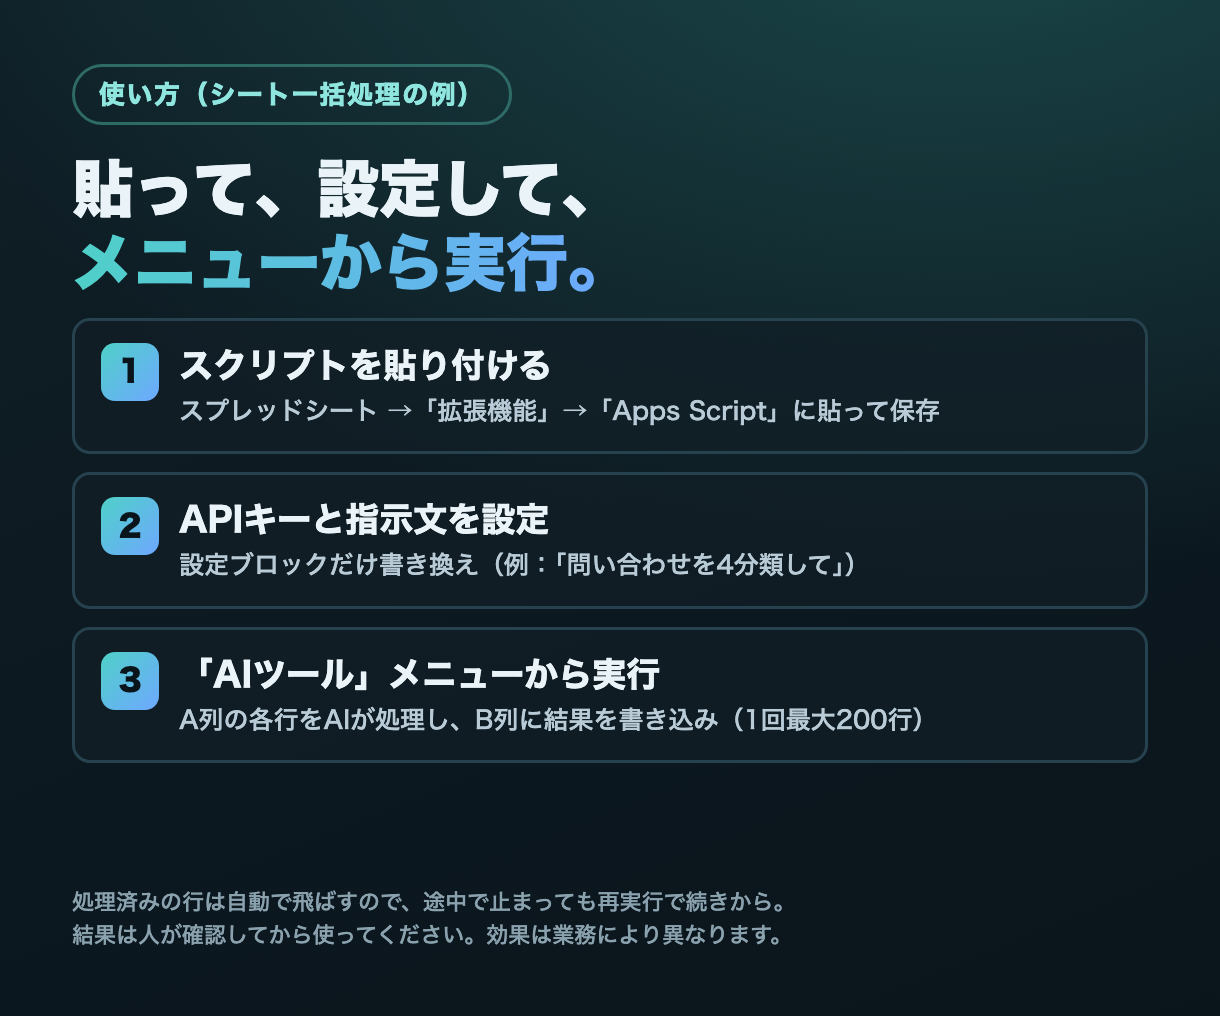
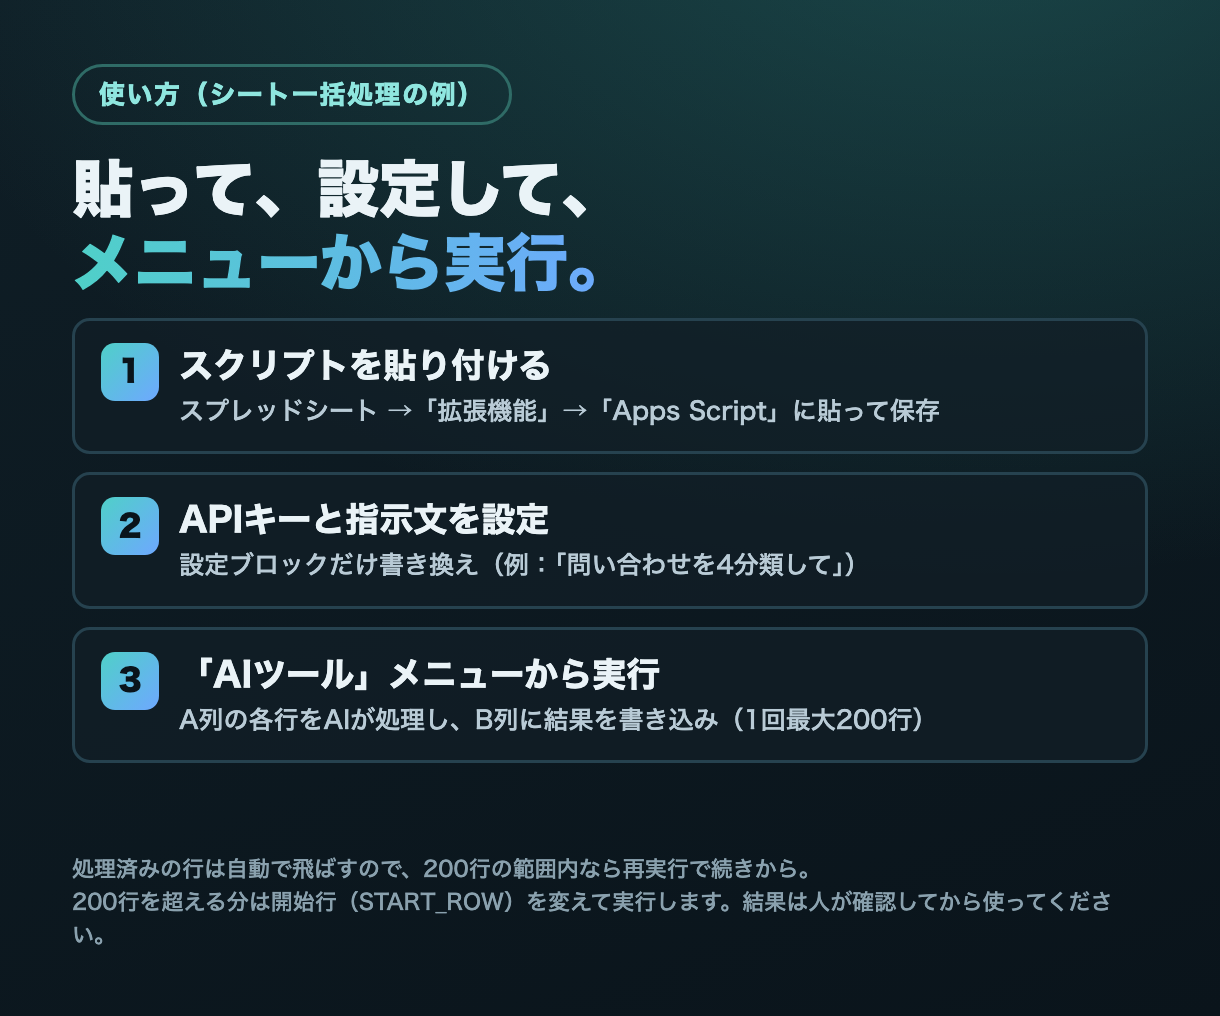
State batch-script 200-row scope precisely; add BOOTH as third JP buy path

Changed region(s): [[0.0623, 0.8238, 0.841, 0.9459], [0.8721, 0.8848, 0.9033, 0.9154]]

diff --git a/tools/ai-api-cost-calculator-jp.html b/tools/ai-api-cost-calculator-jp.html
@@ -61,7 +61,7 @@ button{background:#1f7f7a;color:#fff;border:0;border-radius:10px;padding:9px 16p
 
 <div class="cta">
 <h2 style="margin-top:0">費用が分かったら、そのまま動くスクリプトで始める</h2>
-<p>シートの1列をAIで一括処理するスクリプトと、その日の記録をAIが要約して決まった時刻にメール送信するスクリプトの2本に、日本語の導入手順書を付けたキットです。処理済みの行は自動で飛ばすので、<strong>6分の実行時間制限で止まっても、再実行すれば続きから処理</strong>できます（1回の実行は最大200行）。コードが書けなくてもコピー＆ペーストで導入できます。</p>
+<p>シートの1列をAIで一括処理するスクリプトと、その日の記録をAIが要約して決まった時刻にメール送信するスクリプトの2本に、日本語の導入手順書を付けたキットです。1回の実行で処理するのは開始行から最大200行です。処理済みの行は自動で飛ばすので、<strong>その範囲内なら6分の実行時間制限で止まっても、再実行すれば続きから処理</strong>できます（200行を超える分は開始行の設定を変えて実行します）。コードが書けなくてもコピー＆ペーストで導入できます。</p>
 <p><a class="btn" href="https://coconala.com/services/4426150" target="_blank" rel="noopener">ココナラで購入・導入相談する（3,000円・税抜〜）</a><a class="btn alt" href="https://feverish50.gumroad.com/l/kaqnpj">同じキットを今すぐダウンロード（Gumroad・$19）</a><a class="btn alt" href="https://feverish50.gumroad.com/l/jqxenl">Gmail自動返信・請求書PDF・議事録要約も入ったPRO版（$39）</a></p>
 <p class="muted">ココナラは日本円で購入でき、初期設定サポート（＋4,000円）・実データでの導入伴走（＋12,000円）を任意で付けられます（税抜）。Gumroadは$19の海外決済で、決済後すぐダウンロードできます。</p>
 <p class="muted">まず1本だけ試すなら <a href="https://feverish50.gumroad.com/l/koujr">単品・拡張版（$3）</a>。無料の <a href="https://feverish50.gumroad.com/l/rlalv">事務AIプロンプト集（0円〜）</a> もあります。</p>

diff --git a/store/jp.html b/store/jp.html
@@ -66,6 +66,7 @@ h2.sec{font-family:var(--disp);font-size:21px;margin:0 0 14px}
 
 <section class="card" id="how-to-buy" aria-labelledby="how-to-buy-h">
 <h2 class="sec" id="how-to-buy-h">購入方法を選べます（中身は同じGAS2本＋日本語手順書）</h2>
+<p class="mini">ココナラ・Stripe・Gumroad・BOOTHの納品ZIPは同一です。どれか1つだけご購入ください。</p>
 <div class="cta-row" style="margin-top:6px">
 <a class="buy" href="https://coconala.com/services/4426150" target="_blank" rel="noopener">ココナラで購入・導入相談する →</a>
 <div><div class="price">3,000円（税抜）〜</div><div class="mini">日本円・ココナラ決済 ・ 購入後トークルームでZIPを納品</div></div>
@@ -73,6 +74,7 @@ h2.sec{font-family:var(--disp);font-size:21px;margin:0 0 14px}
 <ul class="pain" style="margin-top:12px">
 <li><b>ココナラがおすすめの方：</b>日本円で支払いたい／初期設定を手伝ってほしい（初期設定サポート＋4,000円）／実データで自動化フローを1つ一緒に作りたい（導入伴走＋12,000円）。いずれも税抜・任意のオプションで、購入前の見積り相談もできます。</li>
 <li><b>Stripeがおすすめの方：</b>自分で導入できるので、今すぐダウンロードしたい（$19・約2,900円の海外決済。決済後すぐダウンロード）。</li>
+<li><b>BOOTHがおすすめの方：</b>自分で導入でき、日本円ですぐダウンロードしたい（3,000円・税込。購入後すぐダウンロード、設定サポートはありません）→ <a href="https://booth.pm/ja/items/8919052" target="_blank" rel="noopener" style="color:var(--accent2)">BOOTHで購入する</a></li>
 </ul>
 <div class="cta-row" style="margin-top:10px">
 <a class="buy" id="buy" href="#" style="opacity:.92">Stripeで今すぐ購入する — $19 →</a>

diff --git a/marketing/coconala-images/img3.html b/marketing/coconala-images/img3.html
@@ -4,5 +4,5 @@
 <div class="row"><div class="n">1</div><div><b>スクリプトを貼り付ける</b><span>スプレッドシート →「拡張機能」→「Apps Script」に貼って保存</span></div></div>
 <div class="row"><div class="n">2</div><div><b>APIキーと指示文を設定</b><span>設定ブロックだけ書き換え（例：「問い合わせを4分類して」）</span></div></div>
 <div class="row"><div class="n">3</div><div><b>「AIツール」メニューから実行</b><span>A列の各行をAIが処理し、B列に結果を書き込み（1回最大200行）</span></div></div>
-<p class="note">処理済みの行は自動で飛ばすので、途中で止まっても再実行で続きから。<br>結果は人が確認してから使ってください。効果は業務により異なります。</p>
+<p class="note">処理済みの行は自動で飛ばすので、200行の範囲内なら再実行で続きから。<br>200行を超える分は開始行（START_ROW）を変えて実行します。結果は人が確認してから使ってください。</p>
 </div></body></html>

diff --git a/guides/chatgpt-sheet-jidoka-demo.html b/guides/chatgpt-sheet-jidoka-demo.html
@@ -119,7 +119,7 @@ function batchProcess() {
 
 <h2>ここが「ただのプロンプト集」との違い</h2>
 <ul>
-<li><b>処理済みの行は自動でスキップ</b>：途中で止めても、もう一度押せば続きから。二重課金しません。</li>
+<li><b>処理済みの行は自動でスキップ</b>：途中で止めても、もう一度押せば続きから（開始行から最大200行の範囲。200行を超える分は開始行を変えて実行）。処理済みの行を二重に処理しません。</li>
 <li><b>暴走防止の上限（MAX_ROWS）</b>：一度に処理する行数に上限があり、想定外の大量実行を防ぎます。</li>
 <li><b>あなたのアカウント内で完結</b>：スクリプトはあなたのGoogle＋あなたのAPIキーで動作。外部にデータを預けません。</li>
 <li><b>コピペ導入</b>：日本語の導入手順書（PDF・全4ページ）が、APIキー取得から貼り付け・つまずき対処まで案内します。</li>

diff --git a/marketing/coconala_offer_and_listing_jp.md b/marketing/coconala_offer_and_listing_jp.md
@@ -2,7 +2,7 @@
 
 > **✅ 公開済み（2026-09-30 09:42 JST）: https://coconala.com/services/4426150** — ローカルMacのPlaywrightで入力・検証・公開。実際の掲載値は本書v2から次の点のみ変更：
 > タイトルは「ChatGPT×GASでシート事務を自動化します」（ココナラは末尾「ます」を自動付与し25字に含めるため）／キャッチコピーとサムネは「消す」→「減らす」、
-> サムネから「あなたの環境に導入します」を削除（基本は自己導入・導入代行はオプション）／「100行でも実行1回」→「1回最大200行・再実行で続きから」／
+> サムネから「あなたの環境に導入します」を削除（基本は自己導入・導入代行はオプション）／「100行でも実行1回」→「1回の実行は開始行から最大200行・その範囲内なら再実行で続きから・200行を超える分は開始行を変更」／
 > 価格に「税抜」を明記／日報スクリプトの説明を「毎朝」→「当日分を決まった時刻に」（実行日の行が対象のため）／追加画像3枚 `02〜04-detail.png`・トークルーム回答例2件を登録／サムネは6:5版 `coconala-images/02-thumb-6x5.png`（1220×1016）／有料オプションに追加日数の欄はないため未設定。
 
 > **v2 の変更点（2026-09-28・オーナー指示）:** 旧v1の「ベーシック/スタンダード/プレミアムの3層プラン（¥2,980/¥7,980/¥19,800）」を廃止し、

diff --git a/ops/AGENT_LOOP.md b/ops/AGENT_LOOP.md
@@ -1,3 +1,7 @@
+## Claude Day-30 (~10:50 JST): honesty fix from BOOTH-session review + BOOTH path
+- Peer (BOOTH session) correctly flagged: `3_ai_batch.gs` processes only sheet rows START_ROW..START_ROW+199 (2–201); rerun skips done rows but does not go past that range. Replaced 「再実行で続きから」 wording with 「200行の範囲内なら再実行で続きから／200行を超える分は開始行を変えて実行」 on the Coconala body + usage image, API cost calculator, sheet demo guide, spec.
+- store/jp.html chooser now lists BOOTH (¥3,000 税込, instant DL, no support) as a third JP path, with an "identical ZIP — buy only one" note.
+
 ## Claude Day-30 (~10:45 JST): BOOTH listing published
 - LIVE: https://booth.pm/ja/items/8919052 (shop https://ai-revenue.booth.pm/) — ¥3,000 税込 DL, same v2 ZIP as Gumroad JP/Coconala; fee ¥213/order → ¥2,787 before payout fee/tax. Verified logged-out (curl 200 + fresh headless Chrome: price, cart, body, category, tags).
 - Ran from the local Mac with a dedicated BOOTH Playwright profile (`~/Library/Caches/ms-playwright-mcp/booth-profile`, launchPersistentContext + CDP); s003's profile untouched. Owner logged in; email verification completed from the received BOOTH mail.
